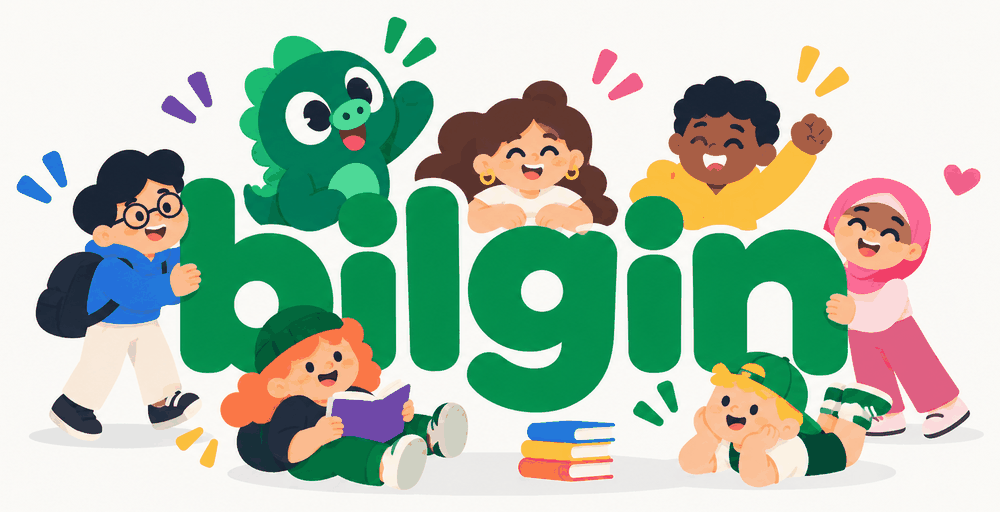
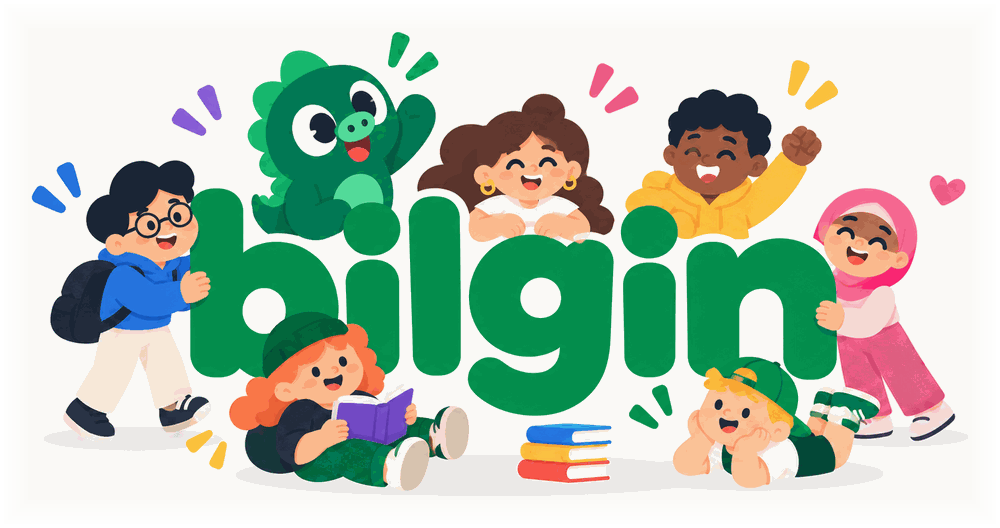
İllüstrasyonun zeminini arka planla kusursuz eşitle
Görselin çevresinde soluk bir dikdörtgen görünüyordu. Render'dan ölçünce
görsel içi #FAF8F5, sayfa #FAF9F6 çıktı: kanal başına tek birimlik fark,
geniş düz alanda kutu olarak görülüyor. Kaynağı FASTOCTREE kuantalamasının
zemin paletini kaydırması.

- Kuantalama sonrası zemine yakın palet girdileri hedef renge sabitleniyor;
  render'da görsel içi ve sayfa artık aynı piksel değerinde
- Görselin çevresine 48 piksellik pay eklenip alfa bu bantta sıfıra
  indiriliyor. Renk ileride kayarsa keskin kenar yerine yumuşak geçiş olur
- Üretim scripts/build-images.py içine alındı, README'ye bağlandı

Zemini tamamen şeffaflaştırmak denendi ve geri alındı: illüstrasyonda soldaki
çocuğun pantolonu zeminle tam olarak aynı renkte (#FDFDFD) ve ona değiyor,
bu yüzden ne eşik ne de bağlı bileşen analizi ikisini ayırabiliyor; pantolon
siliniyor. Gerekçe script ve README içinde not edildi.

Claude-Session: https://claude.ai/code/session_01F9UhKRPcktZPiyRX4fWxeg

Changed region(s): [[0.0, 0.0312, 0.992, 0.9688], [0.527, 0.5938, 0.558, 0.625], [0.248, 0.5312, 0.279, 0.5625]]

diff --git a/styles.css b/styles.css
@@ -47,7 +47,7 @@ img{max-width:100%;height:auto;display:block}
 /* karakterli görsel */
 .hero__art{margin:clamp(36px,6vw,64px) 0 0;font-size:0;line-height:0}
 .hero__art img{
-  /* zemin görsele işlendiği için arka planla birebir aynı, blend gerekmiyor */
+  /* görselin zemini şeffaf; arka plan rengi değişse de kutu oluşmaz */
   width:min(860px,100%);margin-inline:auto;
 }
 

diff --git a/scripts/build-images.py b/scripts/build-images.py
@@ -1,0 +1,70 @@
+#!/usr/bin/env python3
+"""bilgin illüstrasyonunun sayfada kullanılan türevlerini üretir.
+
+Kaynak: assets/bilgin-karakterler.png
+Çıktı:  assets/karakterler-1600.png, assets/karakterler-1000.png
+
+Arka plan rengini değiştirirken styles.css içindeki --cream ile
+buradaki CREAM değerini birlikte güncelleyin.
+"""
+from PIL import Image
+import numpy as np
+import os
+
+ROOT = os.path.dirname(os.path.dirname(os.path.abspath(__file__)))
+SRC = os.path.join(ROOT, 'assets', 'bilgin-karakterler.png')
+
+CREAM = (250, 249, 246)   # styles.css → --cream #FAF9F6
+FEATHER = 48              # kenarların eridiği bant (kaynak ölçeğinde)
+SIZES = [(1600, 'karakterler-1600.png'), (1000, 'karakterler-1000.png')]
+
+
+def main():
+    src = Image.open(SRC).convert('RGB')
+    a = np.asarray(src).astype(int)
+
+    # 1) çevresindeki beyaz boşluğu at
+    ys, xs = np.where((255 - a.min(axis=2)) > 10)
+    cut = np.asarray(src.crop((int(xs.min()), int(ys.min()),
+                               int(xs.max()) + 1, int(ys.max()) + 1))).astype(float)
+
+    # 2) ölçülen zemini sayfa arka planına birebir eşitle.
+    #    Şeffaflık kullanılamıyor: açık renkli giysiler zeminle aynı renkte
+    #    (#FDFDFD) ve ona değiyor, ayrılamıyorlar.
+    edge = np.concatenate([cut[:2].reshape(-1, 3), cut[-2:].reshape(-1, 3),
+                           cut[:, :2].reshape(-1, 3), cut[:, -2:].reshape(-1, 3)])
+    baked = (cut * np.array(CREAM, float) / np.median(edge, axis=0)).round().clip(0, 255).astype(np.uint8)
+    ch, cw, _ = baked.shape
+
+    # 3) çevreye pay ekle ve alfayı bu bantta sıfıra indir, böylece renk
+    #    ileride kayarsa keskin bir dikdörtgen kenarı oluşmaz
+    H, W = ch + 2 * FEATHER, cw + 2 * FEATHER
+    canvas = np.tile(np.array(CREAM, np.uint8), (H, W, 1))
+    canvas[FEATHER:FEATHER + ch, FEATHER:FEATHER + cw] = baked
+
+    yy = np.minimum(np.arange(H), H - 1 - np.arange(H))[:, None]
+    xx = np.minimum(np.arange(W), W - 1 - np.arange(W))[None, :]
+    alpha = (np.clip(np.minimum(yy, xx) / FEATHER, 0, 1) * 255).round().astype(np.uint8)
+
+    out = Image.fromarray(np.dstack([canvas, alpha]), 'RGBA')
+
+    for width, name in SIZES:
+        im = out.resize((width, round(H * width / W)), Image.LANCZOS)
+        # FASTOCTREE, alfa kanalını koruyan tek kuantalama yöntemi
+        q = im.quantize(colors=200, method=Image.FASTOCTREE)
+        # kuantalama zemini bir birim kaydırabiliyor; geniş düz alanda bu bile
+        # gözle görülür bir kutu bırakıyor, o yüzden paleti hedefe sabitle
+        pal = q.getpalette(rawmode=q.palette.mode)
+        step = len(q.palette.mode)
+        for i in range(0, len(pal), step):
+            if max(abs(pal[i + k] - CREAM[k]) for k in range(3)) <= 3:
+                pal[i:i + 3] = list(CREAM)
+        q.putpalette(pal, rawmode=q.palette.mode)
+
+        path = os.path.join(ROOT, 'assets', name)
+        q.save(path, optimize=True)
+        print(f'{name}: {im.size[0]}x{im.size[1]}  {round(os.path.getsize(path) / 1024)} KB')
+
+
+if __name__ == '__main__':
+    main()

diff --git a/README.md b/README.md
@@ -13,6 +13,7 @@ Google Play butonları, marka illüstrasyonu ve footer.
 | `index.html` | Sayfanın tamamı |
 | `styles.css` | Tüm stiller; marka renkleri en üstteki `:root` değişkenlerinde |
 | `script.js` | Footer'daki yılı günceller |
+| `scripts/build-images.py` | İllüstrasyonun sayfa türevlerini üretir |
 | `assets/logo.png` | Uygulama ikonu, kaynak dosya (1254×1254) |
 | `assets/bilgin-karakterler.png` | Marka illüstrasyonu, kaynak dosya (1536×1024) |
 | `assets/logo-192.png`, `logo-384.png` | Sayfadaki ikon, 1x / 2x |
@@ -28,36 +29,29 @@ python3 -m http.server 8000
 
 ## Görsel türevlerini yeniden üretme
 
-Kaynak dosyaları değiştirirseniz sayfadaki türevleri yeniden üretin. İllüstrasyonun
-beyaz zemini, krem arka planla birebir aynı renge (`--cream`, `#FAF9F6`) dönüştürülerek
-görselin içine işlenir — böylece sayfada kutu kenarı görünmez ve CSS blend moduna
-ihtiyaç kalmaz:
+Kaynak dosyaları ya da arka plan rengini değiştirirseniz illüstrasyonun türevlerini
+yeniden üretin. `scripts/build-images.py` bunu yapar:
 
-```python
-from PIL import Image
-import numpy as np
-
-CREAM = np.array([250, 249, 246], float)
-im = Image.open('assets/bilgin-karakterler.png').convert('RGB')
-a = np.asarray(im).astype(int)
-
-# 1) beyaz boşlukları kırp
-ys, xs = np.where((255 - a.min(axis=2)) > 10)
-pad = 24
-cut = np.asarray(im.crop((xs.min()-pad, ys.min()-pad, xs.max()+1+pad, ys.max()+1+pad))).astype(float)
-
-# 2) ölçülen zemin rengini tam olarak kreme eşle
-edge = np.concatenate([cut[:3].reshape(-1,3), cut[-3:].reshape(-1,3),
-                       cut[:,:3].reshape(-1,3), cut[:,-3:].reshape(-1,3)])
-out = Image.fromarray((cut * CREAM / np.median(edge, axis=0)).round().clip(0,255).astype('uint8'))
-
-for w, name in [(1600,'karakterler-1600.png'), (1000,'karakterler-1000.png')]:
-    h = round(out.size[1] * w / out.size[0])
-    out.resize((w,h), Image.LANCZOS).quantize(colors=200).save(f'assets/{name}', optimize=True)
+```bash
+pip install Pillow numpy
+python3 scripts/build-images.py
 ```
 
-Arka plan rengini değiştirirseniz `CREAM` değerini de güncelleyin, aksi halde
-illüstrasyonun zemini sayfayla uyuşmaz.
+Script üç şeyi halleder:
+
+1. **Kırpma** — illüstrasyonun çevresindeki beyaz boşluk atılır.
+2. **Zemin eşitleme** — ölçülen zemin rengi, sayfa arka planına (`--cream`) birebir
+   eşitlenir. Şeffaflık kullanılamaz: illüstrasyonda çocuğun pantolonu gibi giysiler
+   zeminle *tam olarak aynı* renktedir (`#FDFDFD`) ve zemine değdikleri için hiçbir
+   eşik veya bağlı bileşen analizi onları ayıramaz — denendiğinde pantolon siliniyor.
+3. **Kenar yumuşatma** — görselin çevresine 48 piksel pay eklenir ve alfa bu bantta
+   sıfıra iner. Renk ileride kayarsa keskin bir dikdörtgen kenarı oluşmaz.
+
+Kuantalama sonrası zemine yakın palet girdileri hedef renge sabitlenir; aksi halde
+tek birimlik kayma bile geniş düz alanda gözle görülür bir kutu bırakıyor.
+
+Arka plan rengini değiştirirken `styles.css` içindeki `--cream` ile script'teki
+`CREAM` değerini birlikte güncelleyin.
 
 ## Özelleştirme
 
